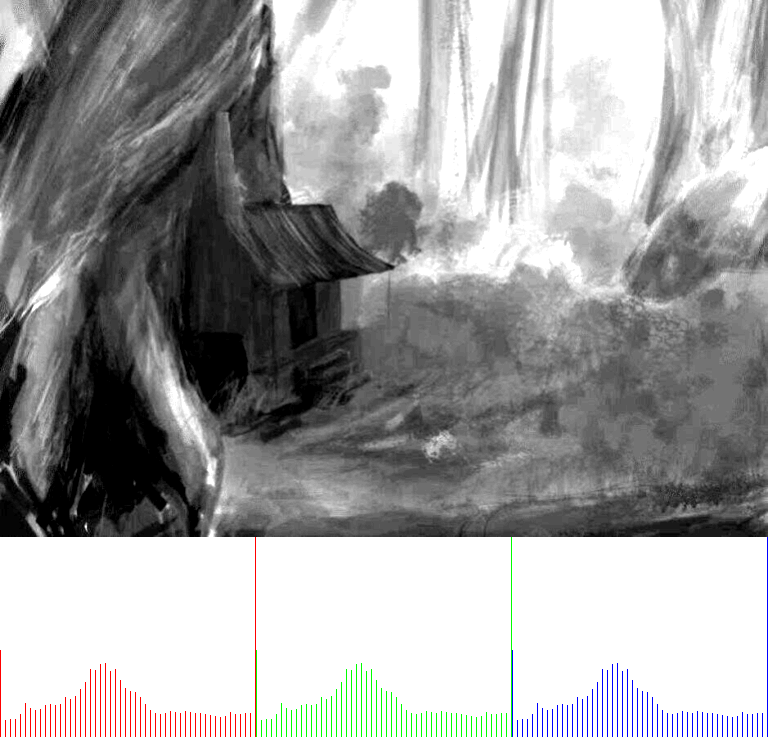
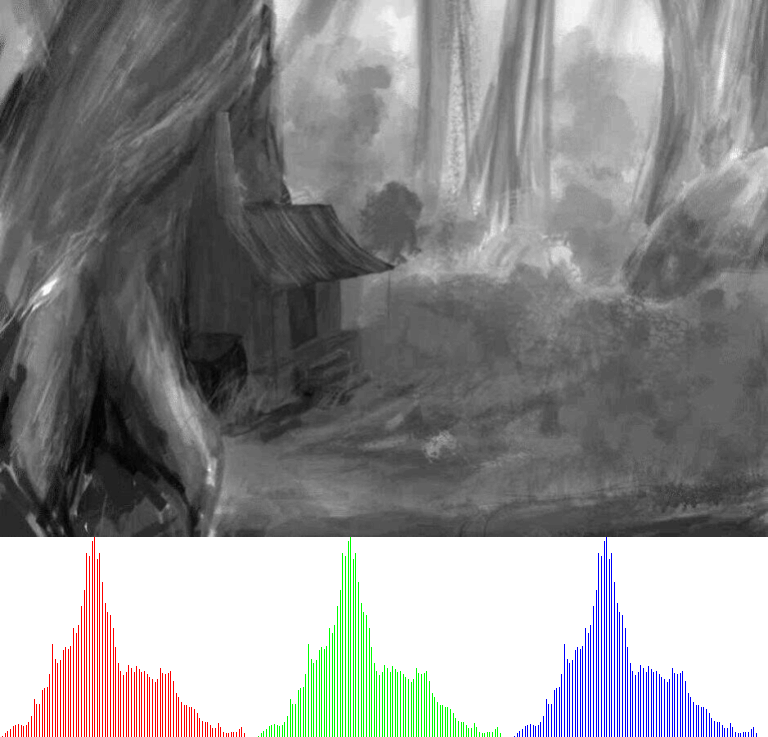
so much testing

diff --git a/Library/ImageEditor.java b/Library/ImageEditor.java
@@ -7,6 +7,100 @@ public class ImageEditor {
         ADD, SUB, MUL, DIV
     }
 
+    public static int[][] convolve(int in[][], double[][] mask, boolean normalize) throws IllegalArgumentException {
+        int mheight = mask.length;
+        int mwidth = mask[0].length;
+        if (mheight % 2 == 0 || mwidth % 2 == 0) {
+            throw new IllegalArgumentException("Mask size must be odd");
+        }
+
+        if (normalize) {
+            double sum = 0.0;
+            for (int i = 0; i < mask.length; i++) {
+                for (int j = 0; j < mask[0].length; j++) {
+                    sum += mask[i][j];
+                }
+            }
+            for (int i = 0; i < mask.length; i++) {
+                for (int j = 0; j < mask[0].length; j++) {
+                    mask[i][j] /= sum;
+                }
+            }
+        }
+
+        int height = in.length;
+        int width = in[0].length;
+
+        int out[][] = new int[height][width];
+
+        // Two loops for getting every pixel;
+        for (int i = 0; i < height; i++) {
+            for (int j = 0; j < width; j++) {
+                double sum = 0;
+
+                for (int k = -mheight / 2; k <= mheight / 2; k++) {
+                    for (int l = -mwidth / 2; l <= mwidth / 2; l++) {
+                        try {
+                            sum += in[i + k][j + l] * mask[k + mheight / 2][l + mwidth / 2];
+                        } catch (ArrayIndexOutOfBoundsException e) {
+                        }
+                    }
+                }
+                out[i][j] = (int) (sum < 0 ? 0 : (sum > 255 ? 255 : sum));
+            }
+        }
+
+        return out;
+    }
+
+    public static int[][][] scale(int[][][] img, int outMin, int outMax) {
+        int[][] histograms = new int[3][256];
+        for (int i = 0; i < img[0].length; i++) {
+            for (int j = 0; j < img[0][0].length; j++) {
+                int red = img[0][i][j];
+                int green = img[1][i][j];
+                int blue = img[2][i][j];
+                histograms[0][red]++;
+                histograms[1][green]++;
+                histograms[2][blue]++;
+            }
+        }
+        float[][] Stats = new float[][] {
+                { 255, 0 },
+                { 255, 0 },
+                { 255, 0 }
+        };
+        for (int i = 0; i < histograms[0].length; i++) {
+            if (histograms[0][i] != 0) {
+                Stats[0][1] = i;
+            }
+            if (histograms[1][i] != 0) {
+                Stats[1][1] = i;
+            }
+            if (histograms[2][i] != 0) {
+                Stats[2][1] = i;
+            }
+            if (histograms[0][255 - i] != 0) {
+                Stats[0][0] = 255 - i;
+            }
+            if (histograms[1][255 - i] != 0) {
+                Stats[1][0] = 255 - i;
+            }
+            if (histograms[2][255 - i] != 0) {
+                Stats[2][0] = 255 - i;
+            }
+        }
+        for (int i = 0; i < img[0].length; i++) {
+            for (int j = 0; j < img[0][0].length; j++) {
+                for (int plane = 0; plane < 3; plane++) {
+                    double result = (img[plane][i][j] - Stats[plane][0])/(Stats[plane][1] - Stats[plane][0]) * (outMax - outMin) + outMin;
+                    img[plane][i][j] = (int) (result > 255 ? 255 : (result < 0 ? 0 : result));
+                }
+            }
+        }
+        return img;
+    }
+
     public static int[][][] alter(int[][][] img, double[] scalars, OPERATION op) {
         int p = img.length;
         int h = img[0].length;

diff --git a/SobelEdgeDetection/EdgeDetection.java b/SobelEdgeDetection/EdgeDetection.java
@@ -1,0 +1,45 @@
+package SobelEdgeDetection;
+
+import java.awt.image.BufferedImage;
+import java.io.File;
+import java.io.IOException;
+
+import javax.imageio.ImageIO;
+
+import Library.ImageEditor;
+
+class EdgeDetection {
+
+    public static void main(String[] args) {
+        String filename = "C:\\Code\\CSC4ST-ImageProcessing\\SobelEdgeDetection\\Space.png";
+        BufferedImage bi;
+        try {
+            bi = ImageIO.read(new File(filename));
+            int[][][] img = ImageEditor.bi2int(bi);
+            double[][] horMask = new double[][] { { -1, -2, -1 },
+                    { 0, 0, 0 },
+                    { 1, 2, 1 } };
+            double[][] verMask = new double[][] { { -1, 0, 1 },
+                    { -2, 0, 2 },
+                    { -1, 0, 1 } };
+            int[][][] horImg = new int[3][0][0];
+            int[][][] verImg = new int[3][0][0];
+            for (int i = 0; i < 3; i++) {
+                horImg[i] = ImageEditor.convolve(img[i], horMask, false);
+                verImg[i] = ImageEditor.convolve(img[i], verMask, false);
+            }
+            horImg = ImageEditor.scale(horImg, 0, 255);
+            verImg = ImageEditor.scale(verImg, 0, 255);
+            BufferedImage outiH = ImageEditor.int2bi(horImg);
+            BufferedImage outiV = ImageEditor.int2bi(verImg);
+            // BufferedImage outMag = ImageEditor.int2bi(output);
+            // BufferedImage outOr = ImageEditor.int2bi(output);
+            ImageIO.write(outiH, "PNG", new File("C:\\Code\\CSC4ST-ImageProcessing\\SobelEdgeDetection\\outiH.png"));
+            ImageIO.write(outiV, "PNG", new File("C:\\Code\\CSC4ST-ImageProcessing\\SobelEdgeDetection\\outiV.png"));
+            // ImageIO.write(outMag, "PNG", new File("C:\\Code\\CSC4ST-ImageProcessing\\SobelEdgeDetection\\outMag.png"));
+            // ImageIO.write(outOr, "PNG", new File("C:\\Code\\CSC4ST-ImageProcessing\\SobelEdgeDetection\\outOr.png"));
+        } catch (IOException e) {
+            e.printStackTrace();
+        }
+    }
+}

diff --git a/PointOperations/PointOperations.java b/PointOperations/PointOperations.java
@@ -7,6 +7,8 @@ import java.io.File;
 
 import javax.imageio.ImageIO;
 
+import Library.ImageEditor;
+
 public class PointOperations {
 
     public static enum OPERATION {
@@ -312,7 +314,7 @@ public class PointOperations {
 
             System.out.println();
             // Scale original Image
-            float factor = (255 - 0) / (ninetyPercentile[1] - fifthPercentile[1]);
+            /* float factor = (255 - 0) / (ninetyPercentile[1] - fifthPercentile[1]);
             for (int i = 0; i < bi.getHeight(); i++) {
                 for (int j = 0; j < bi.getWidth(); j++) {
                     for (int plane = 0; plane < 3; plane++) {
@@ -320,7 +322,8 @@ public class PointOperations {
                         img[plane][i][j] = (int) (result > 255 ? 255 : (result < 0 ? 0 : result));
                     }
                 }
-            }
+            } */
+            img = ImageEditor.scale(img, 0, 255);
             bi = int2bi(img);
             // Draw Modified Image
             BufferedImage outImg = new BufferedImage(bi.getWidth(), bi.getHeight() + 200, BufferedImage.TYPE_INT_RGB);

diff --git a/Histogram/Histogram.java b/Histogram/Histogram.java
@@ -25,7 +25,7 @@ public class Histogram {
     }
 
     public static void main(String[] args) {
-        String filename = "C:\\Code\\CSC4ST-ImageProcessing\\Histogram\\spheres.png";
+        String filename = "C:\\Code\\CSC4ST-ImageProcessing\\Histogram\\GrayImage.png";
         BufferedImage bi = null;
         try {
             bi = ImageIO.read(new File(filename));
